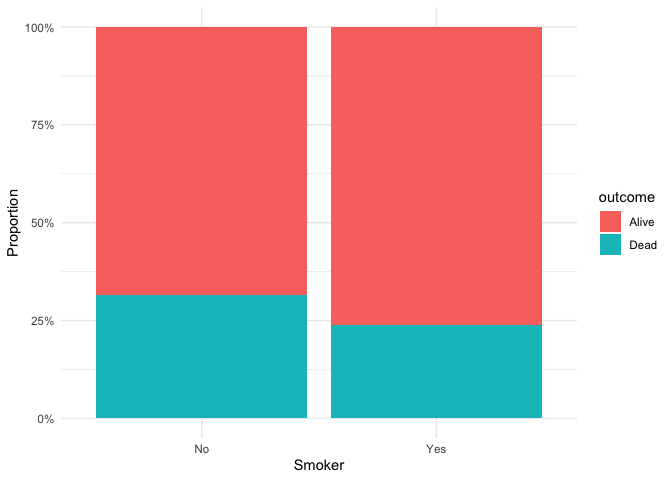
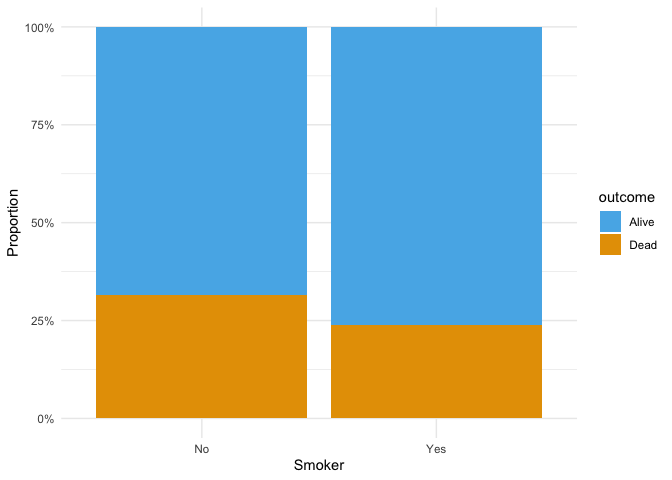
final final

diff --git a/lab-06.md b/lab-06.md
@@ -236,18 +236,22 @@ only, and then per population(capita) versions of each.
 data(Whickham)
 ```
 
-\####3.1
+#### 3.1
 
 This is an observational study because the researchers did not assign
 participants to smoke or not smoke. They simply observed and recorded
 their existing smoking status at baseline and followed up 20 years
 later.
 
-\####3.2 There is `1314` observations. Each observation represents one
+#### 3.2
+
+There is `1314` observations. Each observation represents one
 participant in the study with their smoking status recorded at baseline
 and survival outcome after 20 years.
 
-\####3.3 There is `3` observations : outcome, smoker, age
+#### 3.3
+
+There is `3` observations : outcome, smoker, age
 
 specifically they are:
 
@@ -291,17 +295,20 @@ Whickham %>%
 
 ![](lab-06_files/figure-gfm/unnamed-chunk-4-3.png)<!-- -->
 
-\####3.4 We would expect smokers to have worse health outcomes, a higher
+#### 3.4
+
+We would expect smokers to have worse health outcomes, a higher
 proportion of smokers should be dead after 20 years compared to
 non-smokers.
 
-\####3.5
+#### 3.5
 
 ``` r
 Whickham %>%
   ggplot(aes(x = smoker, fill = outcome)) +
   geom_bar(position = "fill") +
   scale_y_continuous(labels = scales::percent) +
+  scale_fill_manual(values = c("Alive" = "#56B4E9", "Dead" = "#E69F00")) +
   labs(
     y = "Proportion",
     x = "Smoker"
@@ -331,7 +338,7 @@ Whickham %>%
 the result likely shows that smokers have a **higher** survival rate
 than non-smokers, which is contradictive with expectation.
 
-\####3.6
+#### 3.6
 
 ``` r
 Whickham <- Whickham %>%
@@ -342,7 +349,7 @@ Whickham <- Whickham %>%
   ))
 ```
 
-\####3.7
+#### 3.7
 
 ``` r
 Whickham %>%
@@ -390,4 +397,4 @@ least no lower). I think that is the Simpson’s Paradox we talked in this
 module. I think The non-smoker group has a larger proportion of elderly
 people because many older individuals never smoked or because they had
 already quit. Since older people naturally have a higher death rate,
-when we mix all ages together, the result will be wired.
+when we mix all ages together, the result will be weird.
